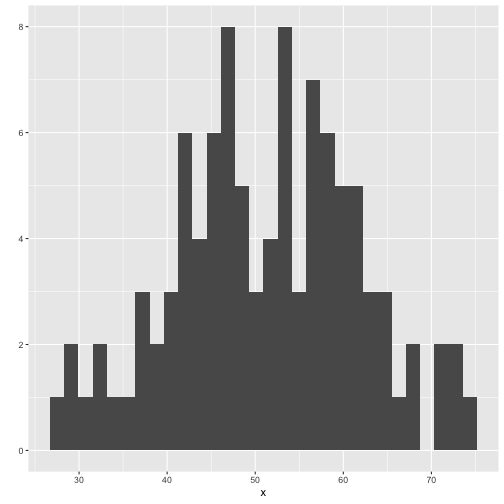
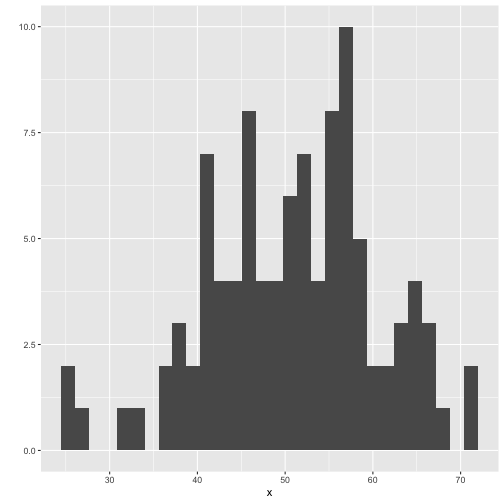
u

diff --git a/Lectures/Week1.html b/Lectures/Week1.html
@@ -1,9 +1,9 @@
 <!DOCTYPE html>
 <html xmlns="http://www.w3.org/1999/xhtml" lang="" xml:lang="">
   <head>
-    <title>A Crash lesson in R, Integration, and descriptive statistics</title>
+    <title>EDUS 608 - Educational Statistics</title>
     <meta charset="utf-8" />
-    <meta name="author" content="Sebastian Hoyos-Torres" />
+    <meta name="author" content="Dr. Morgan DeBusk-Lane" />
     <link href="libs/remark-css/default.css" rel="stylesheet" />
     <link href="libs/remark-css/default-fonts.css" rel="stylesheet" />
   </head>
@@ -11,8 +11,9 @@
     <textarea id="source">
 class: center, middle, inverse, title-slide
 
-# A Crash lesson in R, Integration, and descriptive statistics
-### Sebastian Hoyos-Torres
+# EDUS 608 - Educational Statistics
+### Dr. Morgan DeBusk-Lane
+### August 26th, 2019
 
 ---
 
@@ -26,9 +27,19 @@ class: center, middle, inverse, title-slide
 
 - What's the point?
 --
+---
+### Agenda
 
+- Welcome / Introductions
+--
 
-- R?
+- Syllabus Review
+--
+
+- Brainstorming Map
+--
+
+- R.....? SPSS.....? 
 ---
 ### An introduction to R
 - Although there are some materials in this class that should be figured out by hand,  everyone should download and use R from the Comprehensive R Archive Network (CRAN) 
@@ -137,7 +148,7 @@ formula_for_average(samples)# use the average
 ```
 
 ```
-## [1] 0.151669
+## [1] -0.06951517
 ```
 ---
 ### Functions continued...
@@ -334,7 +345,7 @@ sample(x,5)
 ```
 
 ```
-## [1] 18 10  9 13 15
+## [1]  5 18  4 11 16
 ```
 
 ---
@@ -350,7 +361,7 @@ x %&gt;% mean() #gets the mean
 ```
 
 ```
-## [1] 51.25165
+## [1] 50.89025
 ```
 
 ```r
@@ -358,7 +369,7 @@ x %&gt;% median() #summarizes the median
 ```
 
 ```
-## [1] 51.5934
+## [1] 51.4723
 ```
 
 ```r
@@ -367,7 +378,7 @@ x %&gt;% summary()#all summary output.
 
 ```
 ##    Min. 1st Qu.  Median    Mean 3rd Qu.    Max. 
-##   26.95   43.99   51.59   51.25   58.75   73.84
+##   25.66   44.35   51.47   50.89   57.34   71.51
 ```
 ---
 ### Descriptive plots
@@ -380,16 +391,16 @@ stem(x)#stem and leaf plot
 ## 
 ##   The decimal point is 1 digit(s) to the right of the |
 ## 
-##   2 | 789
-##   3 | 1233
-##   3 | 677899
-##   4 | 0012223333444
-##   4 | 5556666777778888889
-##   5 | 000112233344444
-##   5 | 555666677788999999
-##   6 | 001111123334
-##   6 | 55788
-##   7 | 11334
+##   2 | 667
+##   3 | 13
+##   3 | 77789
+##   4 | 0000011223333444
+##   4 | 5556666667778999
+##   5 | 001111111222233444
+##   5 | 55566666667777778888999
+##   6 | 00113344
+##   6 | 5556778
+##   7 | 12
 ```
 ---
 ### Descriptive plots cont
